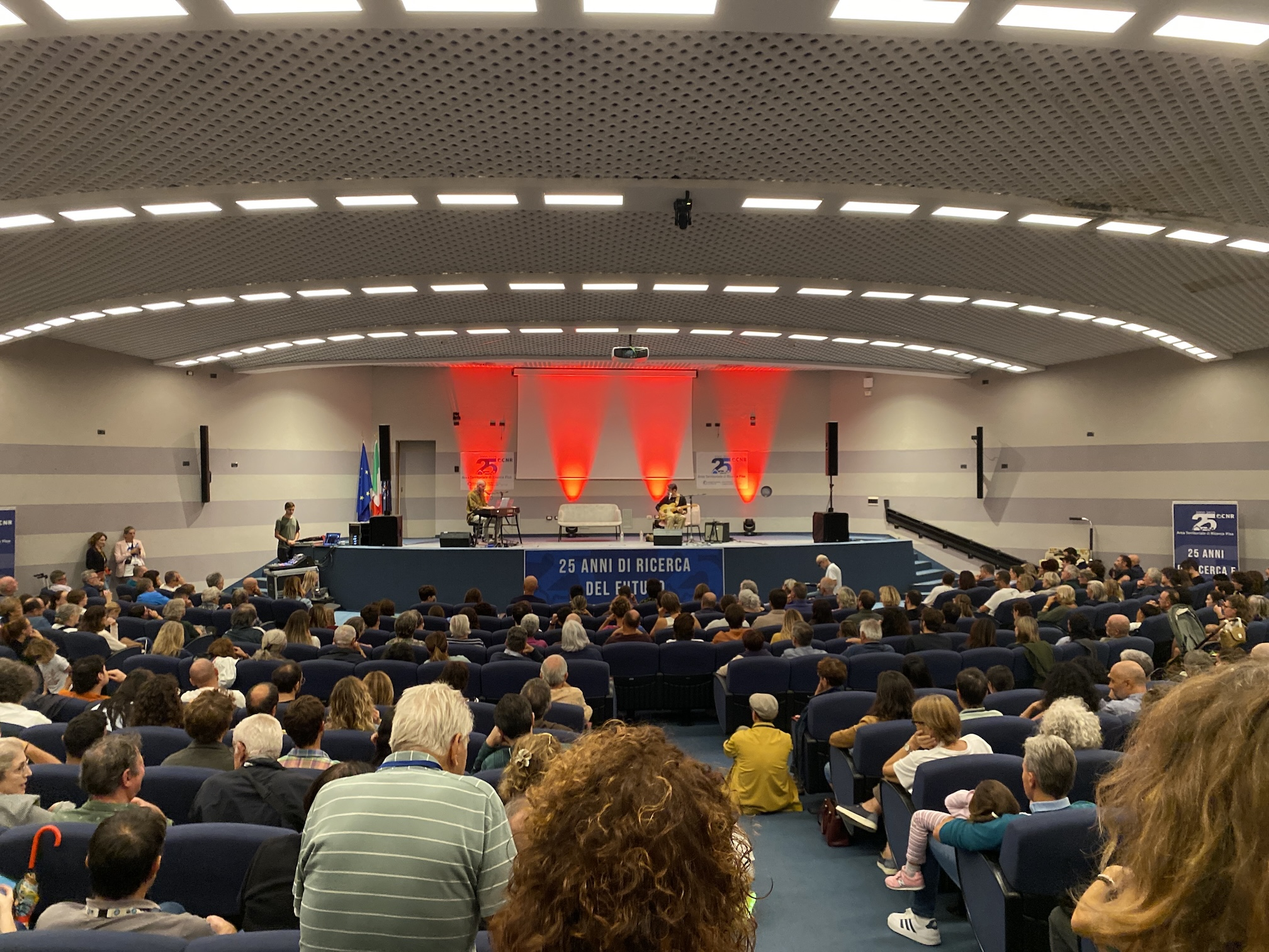
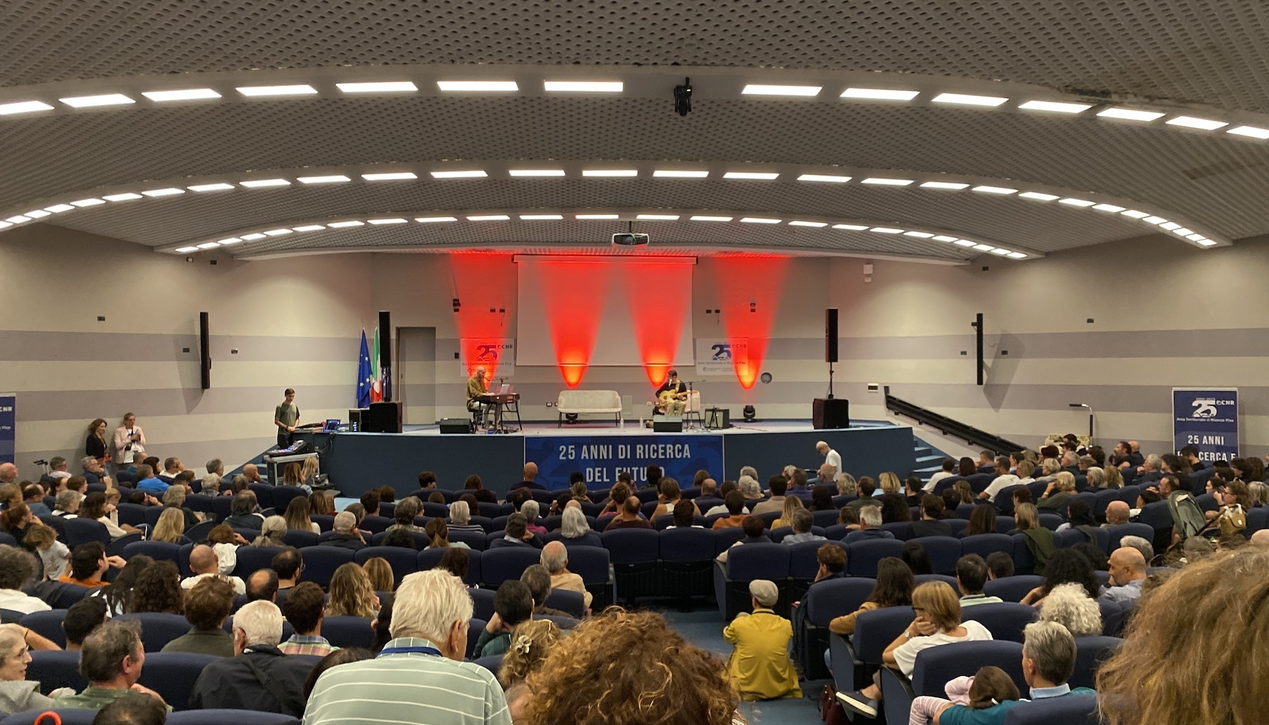
better photo

diff --git a/_posts/2025-09-26-bright_night.md b/_posts/2025-09-26-bright_night.md
@@ -14,7 +14,8 @@ In occasione della Notte Europea delle Ricercatrici e dei Ricercatori 2025, in c
 Attraverso una [sfida](https://www.esuli.it/projects/spot_the_ai.html) nel riconoscimento dei testi scritti da modelli del linguaggio come ChatGPT ragazzi e adulti si sono accorti di quanto sia difficile distinguere quali testi sono scritti da umani o dall'Intelligenza Artificiale e che non c'è sempre da fidarsi di algoritmi che si dichiarano in grado di farlo!
 
 
-<img src="/img/bright_night/IMG_0237.png" alt="drawing" width="400"/>
+<!-- <img src="/img/bright_night/IMG_0237.png" alt="drawing" width="400"/> -->
+<img src="/img/bright_night/bright_night_nice.jpeg" alt="drawing" width="400"/>
 <img src="/img/bright_night/camphoto_684387517.JPEG" alt="drawing" width="400"/>
 
 <img src="/img/bright_night/IMG_0236.png" alt="drawing" width="400"/>
